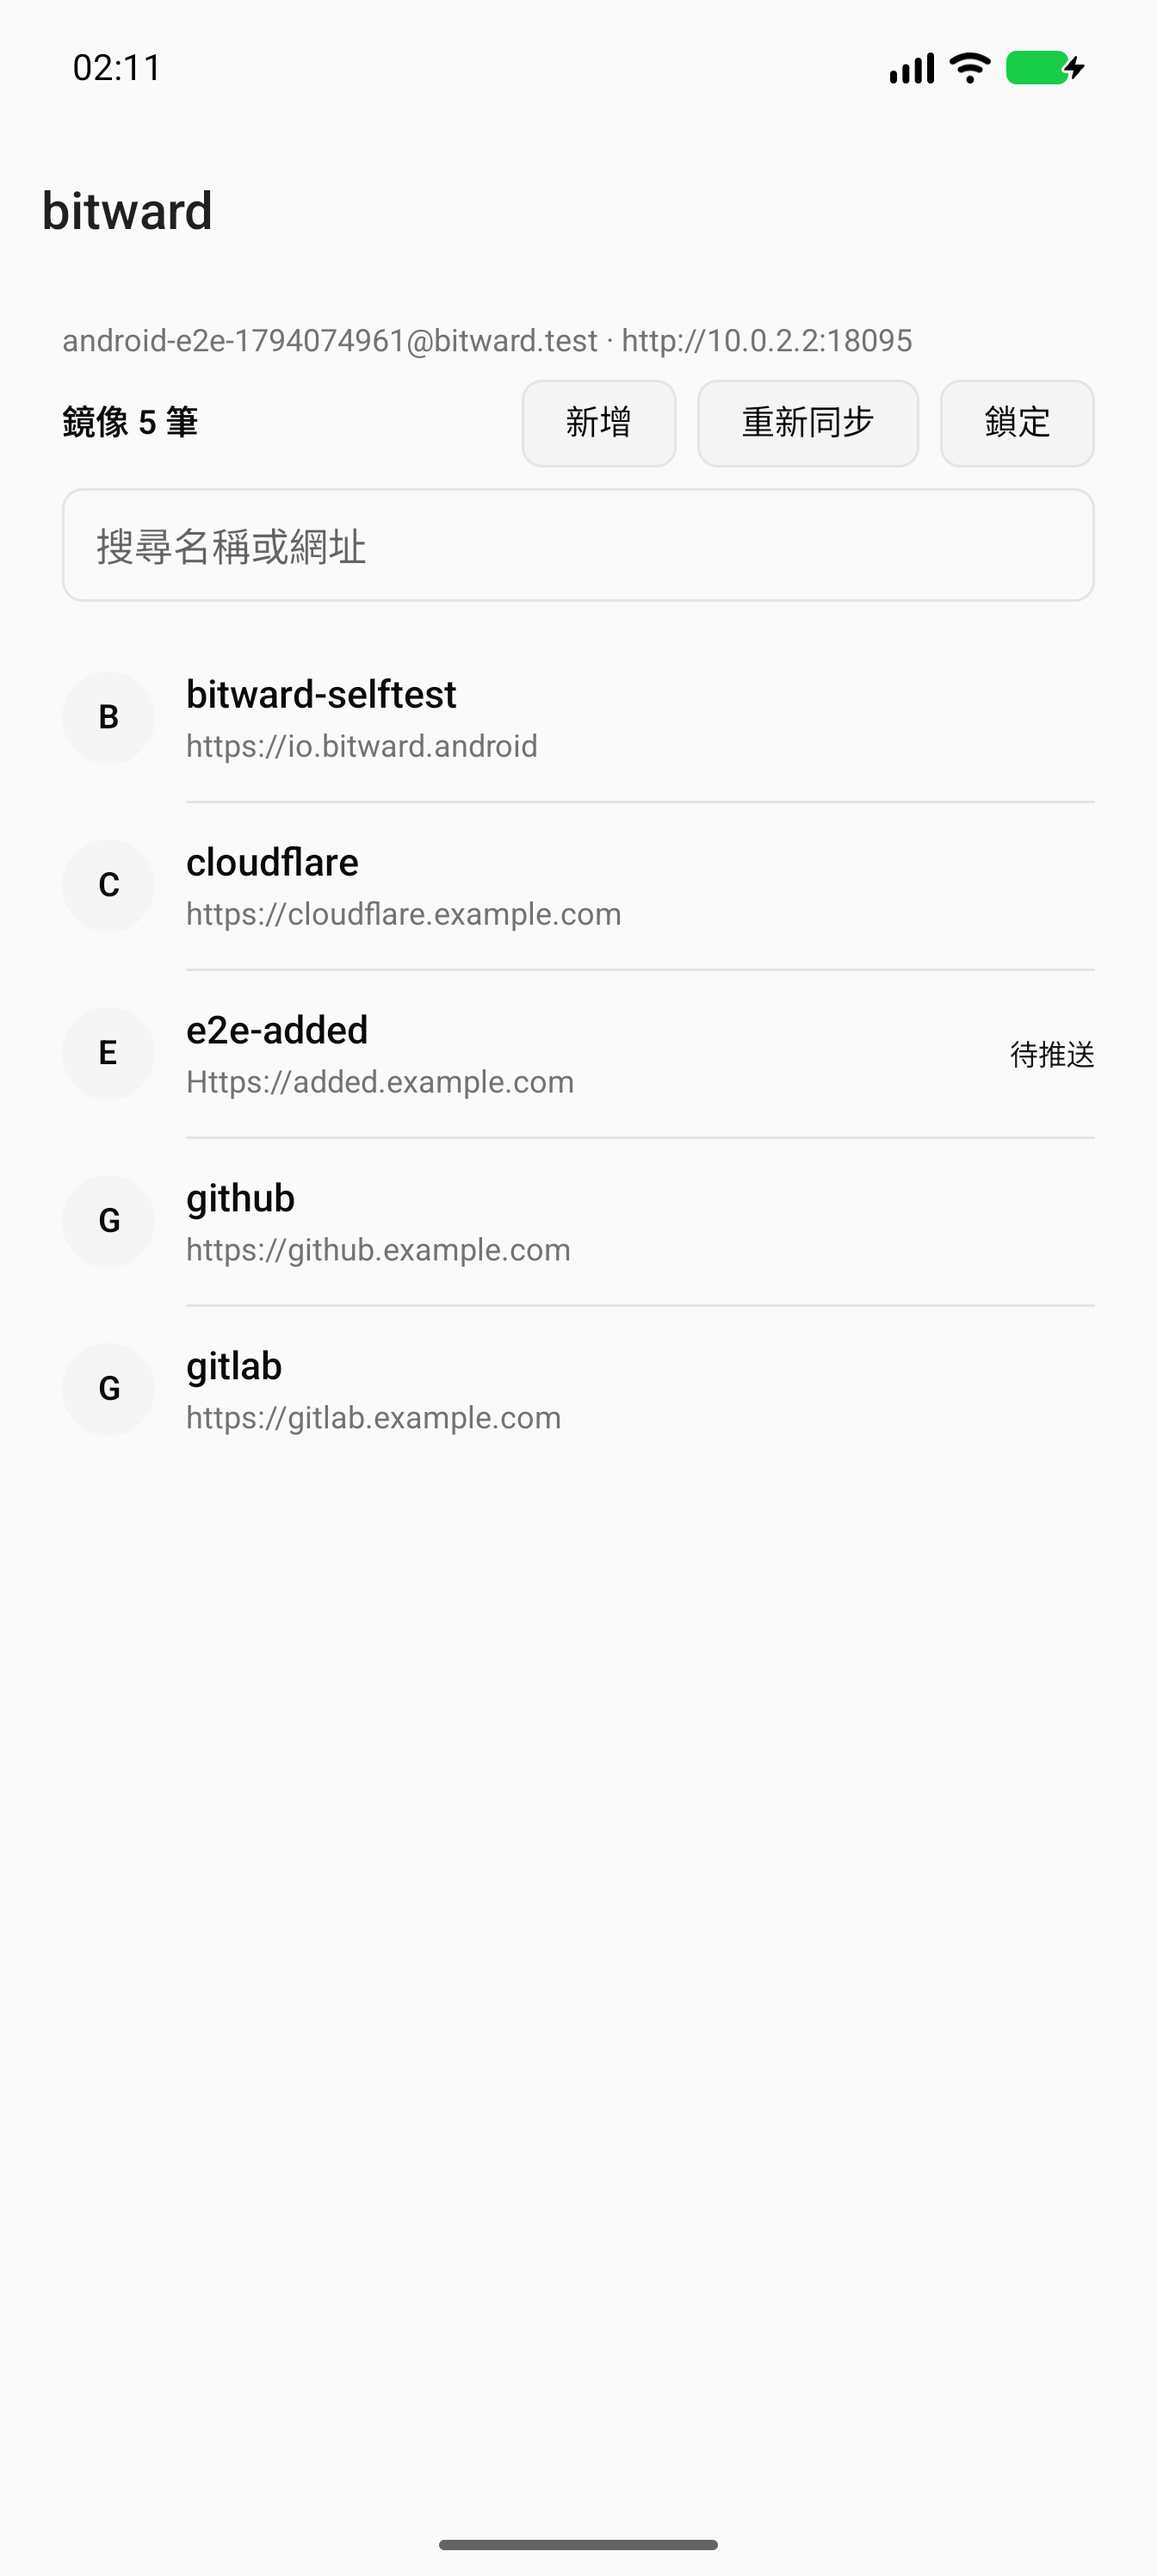
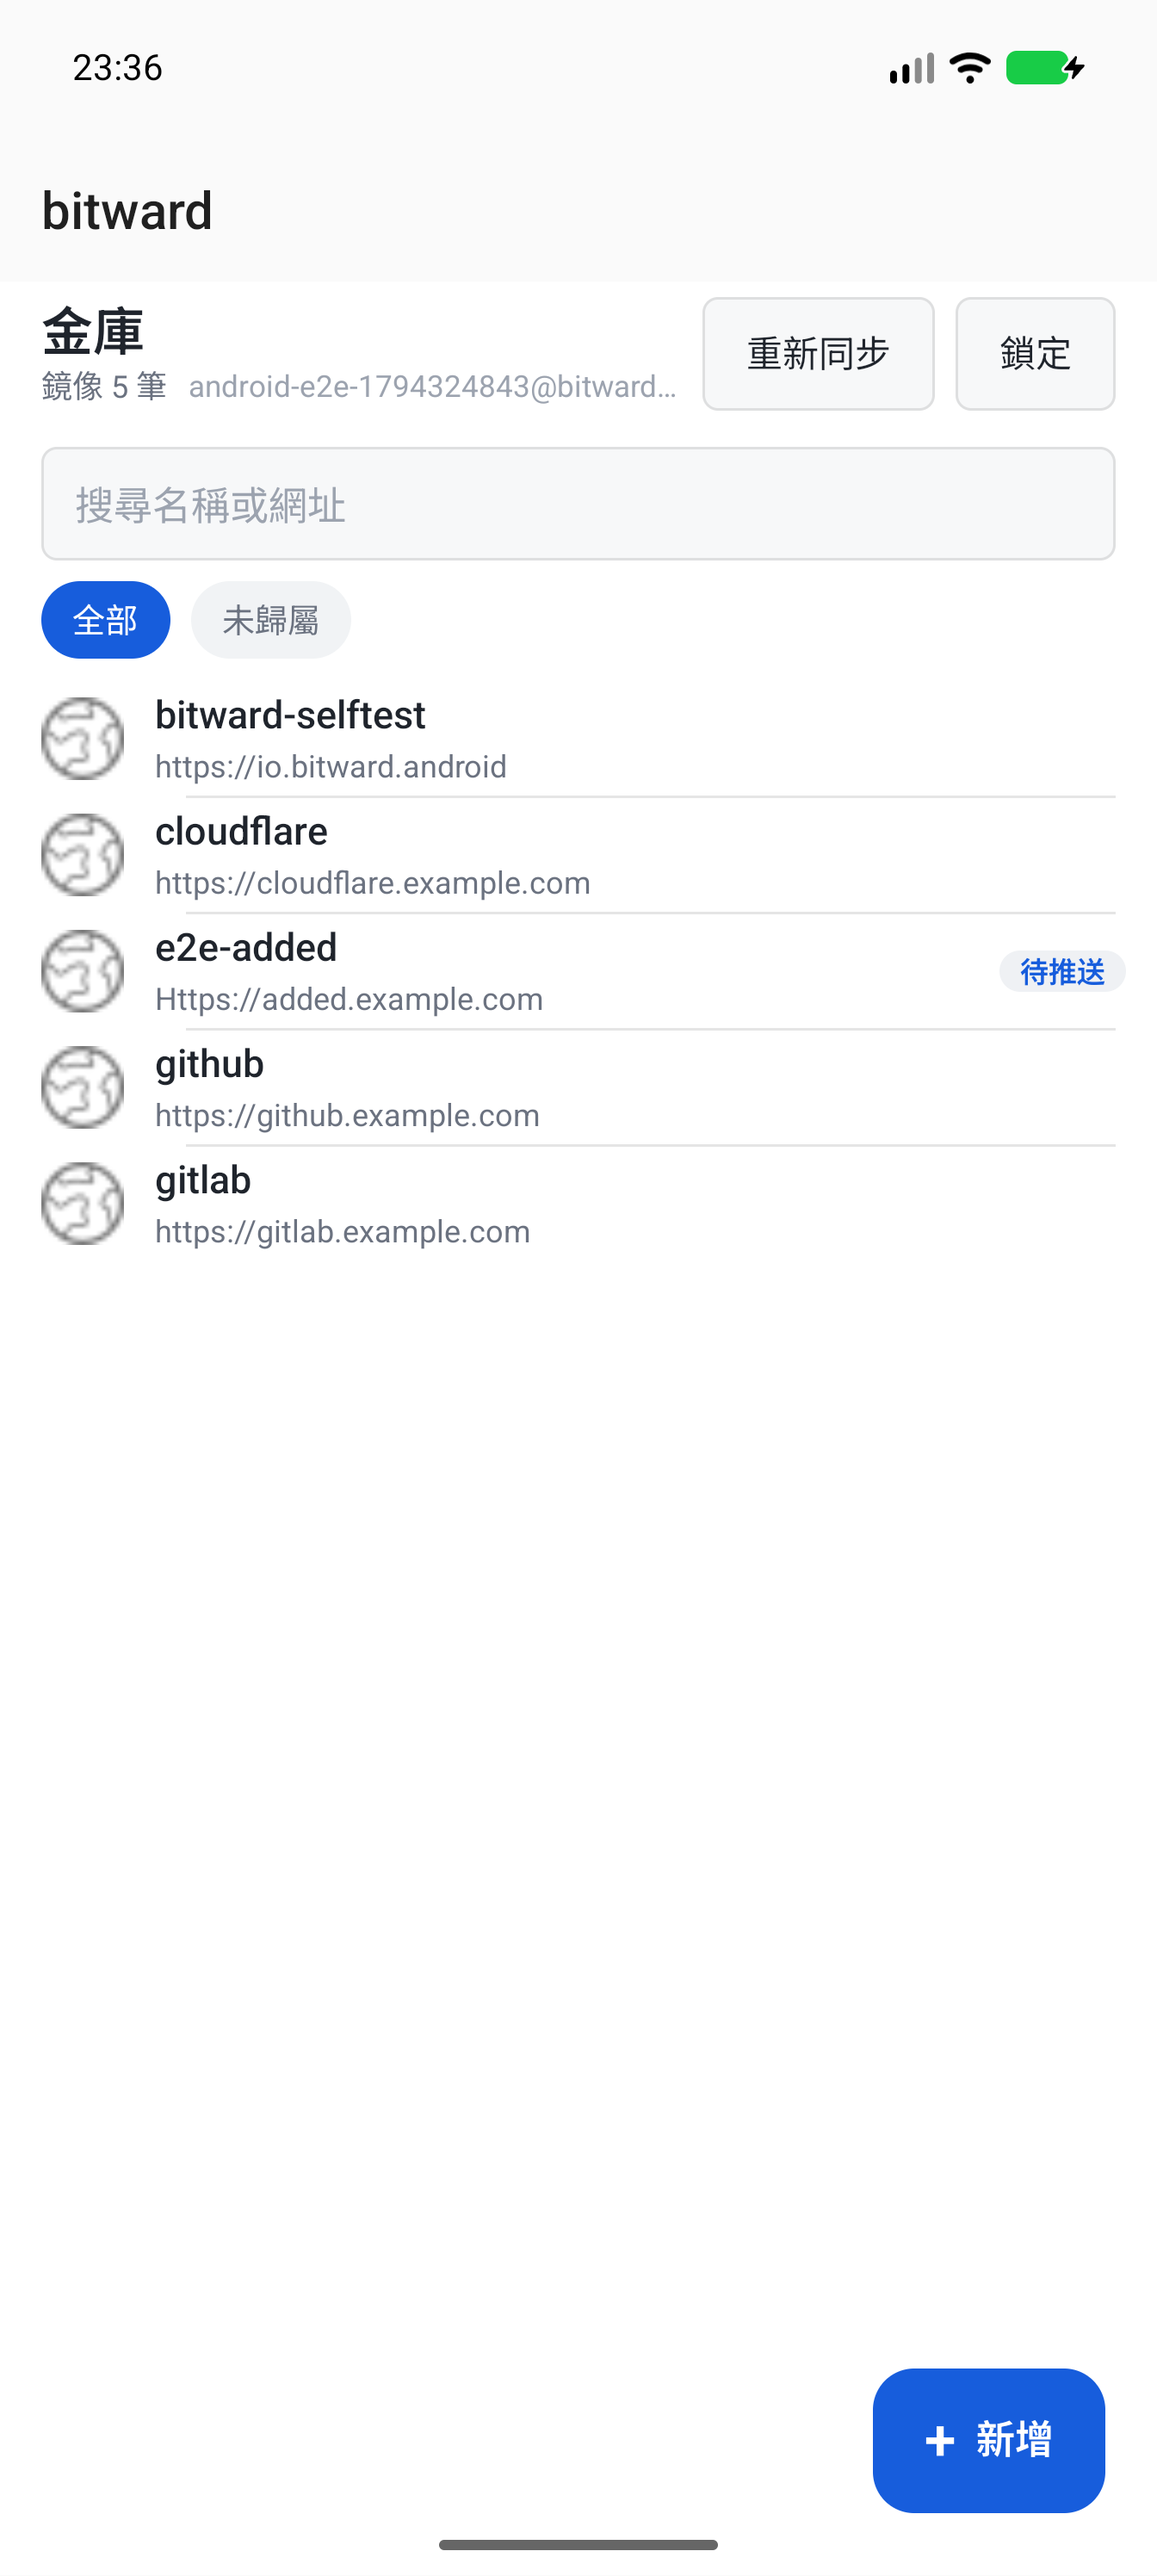
android+e2e: A15–A17 三斷言落地＋首兩輪實錄修正——A15 新皮層級（chip 列／FAB／44dp 列節拍按 density 換算實測）＋全頁表單建 TOTP 項目（seed 真落鏡像）、A16 探針頁 save 全鏈（SaveInfo→提交→onSaveRequest→drain→VW reveal）、A17 自動碼與本機 HMAC 同值；r1 實錄修正兩筆：sync_now 計數口徑改可見鏡像數（raw cipher_count 把 tombstone 算進「鏡像 N 筆」，A15 斷言當場抓到）、頂部列長帳號擠掉「鎖定」鈕（左欄 flex_1＋min_w(0)＋el

diff --git a/apps/bitward-android/android-shell/app/src/main/kotlin/io/bitward/android/AutofillProbeActivity.kt b/apps/bitward-android/android-shell/app/src/main/kotlin/io/bitward/android/AutofillProbeActivity.kt
@@ -49,8 +49,18 @@ class AutofillProbeActivity : Activity() {
                 Log.i(ISLAND_TAG, "probe commit requested")
             }
         }
+        // 欄位間距放大：autofill 面板錨在 focus 欄下方，緊貼的下一欄／鈕會
+        // 被面板蓋住——e2e 的 tap 會誤命中候選列（實測教訓同 A9 段）。
+        fun gap(dp: Int) = View(this).apply {
+            layoutParams = LinearLayout.LayoutParams(
+                LinearLayout.LayoutParams.MATCH_PARENT,
+                (dp * resources.displayMetrics.density).toInt(),
+            )
+        }
         root.addView(user)
+        root.addView(gap(260))
         root.addView(pass)
+        root.addView(gap(140))
         root.addView(submit)
         setContentView(root)
     }

diff --git a/apps/bitward-android/src/ui.rs b/apps/bitward-android/src/ui.rs
@@ -274,6 +274,8 @@ pub fn vault_page(
                 .child(
                     view()
                         .flex_col()
+                        .flex_1()
+                        .min_w(px(0.0))
                         .gap_0p5()
                         .child(
                             text("金庫")
@@ -292,7 +294,8 @@ pub fn vault_page(
                                         Phase::SignedOut => String::new(),
                                     })
                                     .text_size(px(theme::TEXT_ROW_SUB))
-                                    .text_color(theme::TEXT_SECONDARY),
+                                    .text_color(theme::TEXT_SECONDARY)
+                                    .flex_shrink_0(),
                                 )
                                 .child(
                                     text(move || match phase.get() {
@@ -302,7 +305,8 @@ pub fn vault_page(
                                     .text_size(px(11.5))
                                     .text_color(theme::TEXT_MUTED)
                                     .number_of_lines(1)
-                                    .ellipsize_mode(EllipsizeMode::Tail),
+                                    .ellipsize_mode(EllipsizeMode::Tail)
+                                    .flex_1(),
                                 ),
                         ),
                 )
@@ -311,6 +315,7 @@ pub fn vault_page(
                         .flex_row()
                         .items_center()
                         .gap_2()
+                        .flex_shrink_0()
                         .child(ghost_button("重新同步", move || {
                             if phase.get() == Phase::Busy {
                                 return;
@@ -834,10 +839,7 @@ pub fn detail_page(
                                 Some(r) => r.username.unwrap_or_default(),
                                 None => "••••••••".to_owned(),
                             },
-                            vec![
-                                reveal_toggle(show_hub.clone(), id, plain, show_status),
-                                copy_revealed(plain, "username", copied),
-                            ],
+                            vec![copy_revealed(plain, "username", copied)],
                         ),
                         field_block(
                             "密碼",
@@ -847,7 +849,10 @@ pub fn detail_page(
                                 }
                                 None => "••••••••".to_owned(),
                             },
-                            vec![copy_revealed(plain, "password", copied)],
+                            vec![
+                                reveal_toggle(show_hub.clone(), id, plain, show_status),
+                                copy_revealed(plain, "password", copied),
+                            ],
                         ),
                     ],
                 ))
@@ -946,23 +951,28 @@ pub fn detail_page(
                         rows.push(block(m.tags.join("、"), false, vec![]));
                     }
                     let status_line = if hub_pending(&other_hub, id) { "待推送" } else { "已同步" };
-                    let status_fg = if hub_pending(&other_hub, id) {
-                        theme::ACCENT
-                    } else {
-                        theme::TEXT_MUTED
-                    };
-                    rows.push(block(
-                        status_line.to_owned(),
-                        false,
-                        vec![view()
+                    let status_hub = other_hub.clone();
+                    rows.push(
+                        view()
+                            .flex_row()
+                            .items_center()
+                            .gap_2()
                             .child(
                                 text(status_line)
-                                    .text_size(px(theme::TEXT_BADGE))
-                                    .font_weight(FontWeight::SEMIBOLD)
-                                    .text_color(status_fg),
+                                    .text_size(px(theme::TEXT_FIELD_VALUE))
+                                    .text_color(move || {
+                                        if hub_pending(&status_hub, id) {
+                                            theme::ACCENT
+                                        } else {
+                                            theme::TEXT_SECONDARY
+                                        }
+                                    }),
                             )
-                            .into()],
-                    ));
+                            .rounded(px(theme::RADIUS_BLOCK))
+                            .bg(theme::SURFACE)
+                            .px_3()
+                            .py_2(),
+                    );
                     if rows.is_empty() {
                         return view();
                     }

diff --git a/apps/bitward-android/src/hub.rs b/apps/bitward-android/src/hub.rs
@@ -262,14 +262,15 @@ impl Hub {
             .unwrap_or(u32::MAX);
         if pending > 0 {
             log::warn!("pull: outbox 尚有 {pending} 列未推送，跳過全量重建（離線態）");
-            return Ok(self.store.cipher_count().unwrap_or(0) as usize);
+            // 計數口徑＝可見鏡像（list 排除 tombstone／封存），不是 raw 行數。
+            return Ok(self.list("").len());
         }
         let raw = client.sync().await.map_err(|e| format!("sync 失敗：{e}"))?;
         self.store
             .apply_sync(&raw)
             .map_err(|e| format!("鏡像落地失敗：{e}"))?;
         self.reindex_plain()?;
-        Ok(self.store.cipher_count().unwrap_or(0) as usize)
+        Ok(self.list("").len())
     }
 
     /// 鏡像落盤後的明文索引回填（與 daemon 同語意、同函數：欄位路徑見

diff --git a/apps/bitward-android/android-shell/README.md b/apps/bitward-android/android-shell/README.md
@@ -56,7 +56,8 @@ cd apps/bitward-android && android-shell/build.sh
 | `app/src/main/AndroidManifest.xml` | 孤島三 service＋复刻 nsh 的 application/activity 節（application 加 `android:name=".BitwardApplication"`） |
 | `app/src/main/kotlin/io/bitward/android/BitwardApplication.kt` | 進程最早期把 `BITWARD_ANDROID_DATA` 指向 `noBackupFilesDir/bitward`（鏡像目錄缺陷修） |
 | `app/src/main/kotlin/io/bitward/android/BitwardAutofillService.kt` | 填充服務＋`HubBridge` 程序內介面（unlocked/candidates/reveal/save）＋`HubHolder.ensureBridge()` |
-| `app/src/main/kotlin/io/bitward/android/NativeHub.kt` | Rust 中樞的 JNI 面（`src/jni.rs` 符號）＋`HubBridge` 的 in-process 實作 |
+| `app/src/main/kotlin/io/bitward/android/NativeHub.kt` | Rust 中樞的 JNI 面（`src/jni.rs` 五支符號：ready/unlocked/candidates/reveal/save）＋`HubBridge` 的 in-process 實作 |
+| `app/src/main/kotlin/io/bitward/android/AutofillProbeActivity.kt` | e2e A16 探針頁：hint 帳密欄＋`AutofillManager.commit()`（確定性觸發存檔流；零業務語意） |
 | `app/src/main/kotlin/io/bitward/android/BitwardCredentialProviderService.kt` | API 34 `android.service.credentials.CredentialProviderService` 轉接（骨架，bridge 已預留） |
 | `app/src/main/kotlin/io/bitward/android/BitwardKeyStore.kt` | Keystore Class 3（AES wrap 金鑰＋EC 探針，StrongBox 降級路） |
 | `app/src/main/kotlin/io/bitward/android/HubService.kt` | foreground service 保命（`startForeground` 尚未接，見下） |
@@ -85,6 +86,11 @@ cd apps/bitward-android && android-shell/build.sh
    但本批**未解鎖的冷啟 service 仍回鎖定態**——金鑰只活在已登入的 UI
    進程記憶體，這是 Keystore 批之前刻意保留的邊界。
 4. 背景同步/UnifiedPush 走 `HubService.startForeground`（尚未接，含通知權限）。
+5. save 真寫入（2026-11-10 第四批）：未儲存組合的 fill 回應掛 `SaveInfo`
+   （USERNAME|PASSWORD，帳號欄現值對上候選＝已儲存不掛）；onSaveRequest 從
+   fillContexts 結構取帳密與查詢鍵（webDomain 優先、原生退 package）過
+   `nshSave` → `Hub::save_from_autofill`（同帳號改密＝patch 密碼欄；查無＝
+   create；同組合＝unchanged 零寫入）。鎖態 save 回失敗不假裝存（驗收 A16）。
 
 解鎖引導：鎖定態面板列「Bitward：尚未解鎖」，點它拉開 app 走登入；
 解鎖後的下一次 fill 請求就是真候選列（驗收 A11 走的就是這條路）。
